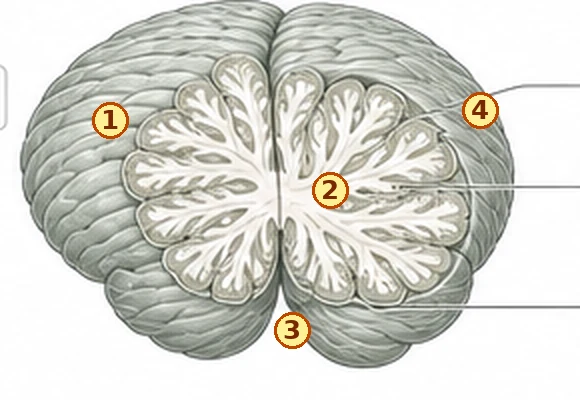
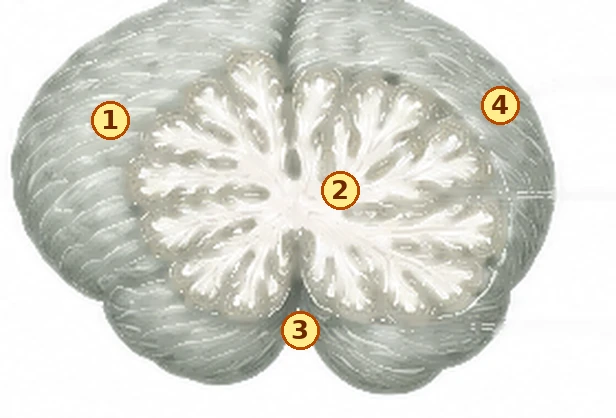
Add files via upload

diff --git a/caderno-ilustrado.html b/caderno-ilustrado.html
@@ -123,7 +123,7 @@ a:focus-visible,button:focus-visible{outline:2px solid var(--iolite);outline-off
 <main id="pranchas"></main>
 
 <section class="nota">
-  <b>Sobre as pranchas.</b> As ilustrações foram geradas por IA e revisadas estrutura por estrutura; os marcadores e os nomes foram conferidos contra a bibliografia da disciplina. Onde o desenho não permitia identificação segura — o detalhe do tronco encefálico no corte sagital, por exemplo — a estrutura foi deixada de fora em vez de ser nomeada por aproximação.
+  <b>Sobre as pranchas.</b> As ilustrações foram geradas por IA; as caixas e linhas de chamada originais foram removidas da imagem, e os marcadores foram posicionados e conferidos um a um contra a bibliografia da disciplina. Onde o desenho não permitia identificação segura — o detalhe do tronco encefálico no corte sagital, por exemplo — a estrutura foi deixada de fora em vez de ser nomeada por aproximação.
 </section>
 
 <footer>
@@ -155,9 +155,9 @@ const PRANCHAS = [
   {n:5,perg:"Limite entre as faixas verde e lilás.",
    alts:["Sulco lateral","Sulco central","Sulco parieto-occipital","Sulco calcarino"],ok:1,
    exp:"O sulco central, ou de Rolando, separa o lobo frontal do parietal — e, funcionalmente, o comando motor da recepção sensitiva. É a primeira referência a localizar numa face lateral."},
-  {n:6,perg:"Fenda profunda que separa o lobo temporal do frontal.",
-   alts:["Sulco central","Sulco lateral","Fissura longitudinal","Sulco pós-central"],ok:1,
-   exp:"O sulco lateral, ou de Sylvius, aloja no seu fundo o córtex insular e, na sua margem, a artéria cerebral média — o vaso mais frequentemente envolvido no AVC isquêmico."},
+  {n:6,perg:"Faixa alaranjada, na margem superior do lobo temporal.",
+   alts:["Giro pós-central","Giro temporal superior","Giro do cíngulo","Giro para-hipocampal"],ok:1,
+   exp:"No seu terço posterior fica a área de Wernicke, no hemisfério dominante; no giro temporal transverso, escondido no fundo do sulco lateral, está o córtex auditivo primário."},
   {n:7,perg:"Lobo situado abaixo do sulco lateral.",
    alts:["Lobo frontal","Lobo temporal","Lobo occipital","Lobo parietal"],ok:1,
    exp:"Abriga o córtex auditivo e, na face medial, hipocampo e amígdala. É o lobo cujo úncus hernia sobre o III nervo craniano, produzindo midríase fixa."},
@@ -167,9 +167,9 @@ const PRANCHAS = [
   {n:9,perg:"Estrutura folheada abaixo do lobo occipital.",
    alts:["Ponte","Cerebelo","Bulbo","Lobo temporal"],ok:1,
    exp:"O cerebelo ocupa a fossa posterior, abaixo da tenda do cerebelo. Coordena movimento e equilíbrio; seus sinais são ipsilaterais à lesão, por conta da dupla decussação das vias."},
-  {n:10,perg:"Faixa alaranjada, na margem superior do lobo temporal.",
-   alts:["Giro pós-central","Giro temporal superior","Giro do cíngulo","Giro para-hipocampal"],ok:1,
-   exp:"No seu terço posterior fica a área de Wernicke, no hemisfério dominante; e no giro temporal transverso, escondido no fundo do sulco lateral, o córtex auditivo primário."}
+  {n:10,perg:"Fenda que separa o lobo temporal do frontal.",
+   alts:["Sulco central","Sulco lateral","Sulco parieto-occipital","Fissura longitudinal"],ok:1,
+   exp:"O sulco lateral, ou de Sylvius, aloja no fundo o córtex insular e, na sua margem, a artéria cerebral média — o vaso mais envolvido no AVC isquêmico."}
  ]
 },
 {
